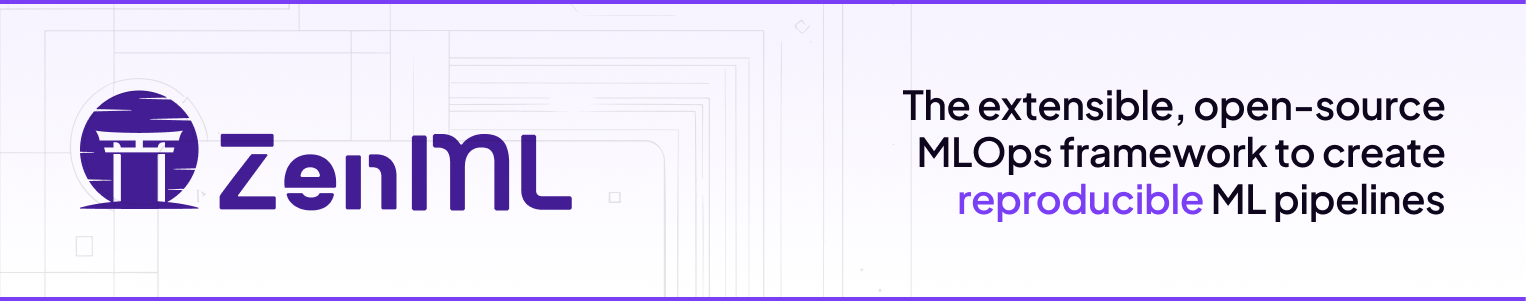
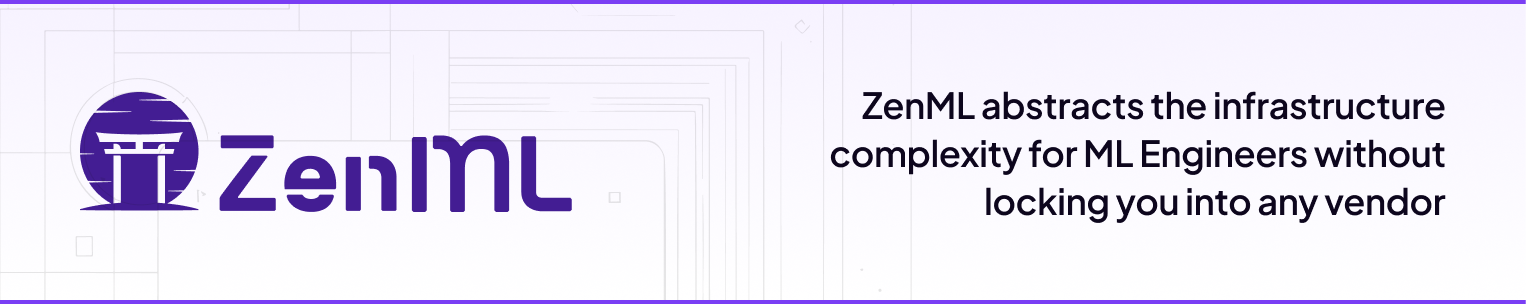
Header improvements

diff --git a/README.md b/README.md
@@ -7,36 +7,47 @@
 *** https://www.markdownguide.org/basic-syntax/#reference-style-links
 -->
 
-[![PyPi][pypi-shield]][pypi-url]
-[![PyPi][pypiversion-shield]][pypi-url]
-[![PyPi][downloads-shield]][downloads-url]
-[![Contributors][contributors-shield]][contributors-url]
-[![License][license-shield]][license-url]
-<!-- [![Build][build-shield]][build-url] -->
-<!-- [![CodeCov][codecov-shield]][codecov-url] -->
+<div align="center">
+
+  <!-- PROJECT LOGO -->
+  <br />
+    <a href="https://zenml.io">
+      <img alt="ZenML Logo" src="docs/book/.gitbook/assets/header.png" alt="ZenML Logo">
+    </a>
+  <br />
+
+  [![PyPi][pypi-shield]][pypi-url]
+  [![PyPi][pypiversion-shield]][pypi-url]
+  [![PyPi][downloads-shield]][downloads-url]
+  [![Contributors][contributors-shield]][contributors-url]
+  [![License][license-shield]][license-url]
+  <!-- [![Build][build-shield]][build-url] -->
+  <!-- [![CodeCov][codecov-shield]][codecov-url] -->
+
+</div>
 
 <!-- MARKDOWN LINKS & IMAGES -->
 <!-- https://www.markdownguide.org/basic-syntax/#reference-style-links -->
 
-[pypi-shield]: https://img.shields.io/pypi/pyversions/zenml?style=for-the-badge
+[pypi-shield]: https://img.shields.io/pypi/pyversions/zenml?color=281158
 
 [pypi-url]: https://pypi.org/project/zenml/
 
-[pypiversion-shield]: https://img.shields.io/pypi/v/zenml?style=for-the-badge
+[pypiversion-shield]: https://img.shields.io/pypi/v/zenml?color=361776
 
-[downloads-shield]: https://img.shields.io/pypi/dm/zenml?style=for-the-badge
+[downloads-shield]: https://img.shields.io/pypi/dm/zenml?color=431D93
 
 [downloads-url]: https://pypi.org/project/zenml/
 
-[codecov-shield]: https://img.shields.io/codecov/c/gh/zenml-io/zenml?style=for-the-badge
+[codecov-shield]: https://img.shields.io/codecov/c/gh/zenml-io/zenml?color=7A3EF4
 
 [codecov-url]: https://codecov.io/gh/zenml-io/zenml
 
-[contributors-shield]: https://img.shields.io/github/contributors/zenml-io/zenml?style=for-the-badge
+[contributors-shield]: https://img.shields.io/github/contributors/zenml-io/zenml?color=7A3EF4
 
 [contributors-url]: https://github.com/othneildrew/Best-README-Template/graphs/contributors
 
-[license-shield]: https://img.shields.io/github/license/zenml-io/zenml?style=for-the-badge
+[license-shield]: https://img.shields.io/github/license/zenml-io/zenml?color=9565F6
 
 [license-url]: https://github.com/zenml-io/zenml/blob/main/LICENSE
 
@@ -56,24 +67,12 @@
 
 [build-url]: https://github.com/zenml-io/zenml/actions/workflows/ci.yml
 
-
-<!-- PROJECT LOGO -->
-<br />
 <div align="center">
-  <a href="https://zenml.io">
-    <img alt="ZenML Logo" src="docs/book/.gitbook/assets/header.png" alt="ZenML">
-  </a>
-
-<h3 align="center">Build portable, production-ready MLOps pipelines.</h3>
-
+  <h3 align="center">Build portable, production-ready MLOps pipelines.</h3>
   <p align="center">
-    A simple yet powerful open-source framework that integrates all your ML tools.
-    <br />
-    <a href="https://docs.zenml.io/"><strong>Explore the docs »</strong></a>
-    <br />
     <div align="center">
       Join our <a href="https://zenml.io/slack-invite" target="_blank">
-      <img width="25" src="https://cdn3.iconfinder.com/data/icons/logos-and-brands-adobe/512/306_Slack-512.png" alt="Slack"/>
+      <img width="18" src="https://cdn3.iconfinder.com/data/icons/logos-and-brands-adobe/512/306_Slack-512.png" alt="Slack"/>
     <b>Slack Community</b> </a> and be part of the ZenML family.
     </div>
     <br />
@@ -87,24 +86,17 @@
     ·
     <a href="https://blog.zenml.io/">Read Blog</a>
     ·
-    <a href="#-meet-the-team">Meet the Team</a>
+    <a href="https://www.zenml.io/company#team">Meet the Team</a>
     <br />
-    <b>ZenML Cloud</b> is now available in beta. <a href="https://cloud.zenml.io">Sign up</a> to see it in action.  
     <br />
     🎉 Version 0.45.4 is out. Check out the release notes
     <a href="https://github.com/zenml-io/zenml/releases">here</a>.
     <br />
-    <a href="https://www.linkedin.com/company/zenml/">
-    <img src="https://img.shields.io/badge/-LinkedIn-black.svg?style=for-the-badge&logo=linkedin&colorB=555" alt="Logo">
-    </a>
-    <a href="https://twitter.com/zenml_io">
-    <img src="https://img.shields.io/badge/-Twitter-black.svg?style=for-the-badge&logo=twitter&colorB=555" alt="Logo">
-    </a>
-    <a href="https://www.youtube.com/c/ZenML">
-    <img src="https://img.shields.io/badge/-YouTube-black.svg?style=for-the-badge&logo=youtube&colorB=555" alt="Logo">
-    </a>
+    <br />
   </p>
 </div>
+
+---
 
 <!-- TABLE OF CONTENTS -->
 <details>
